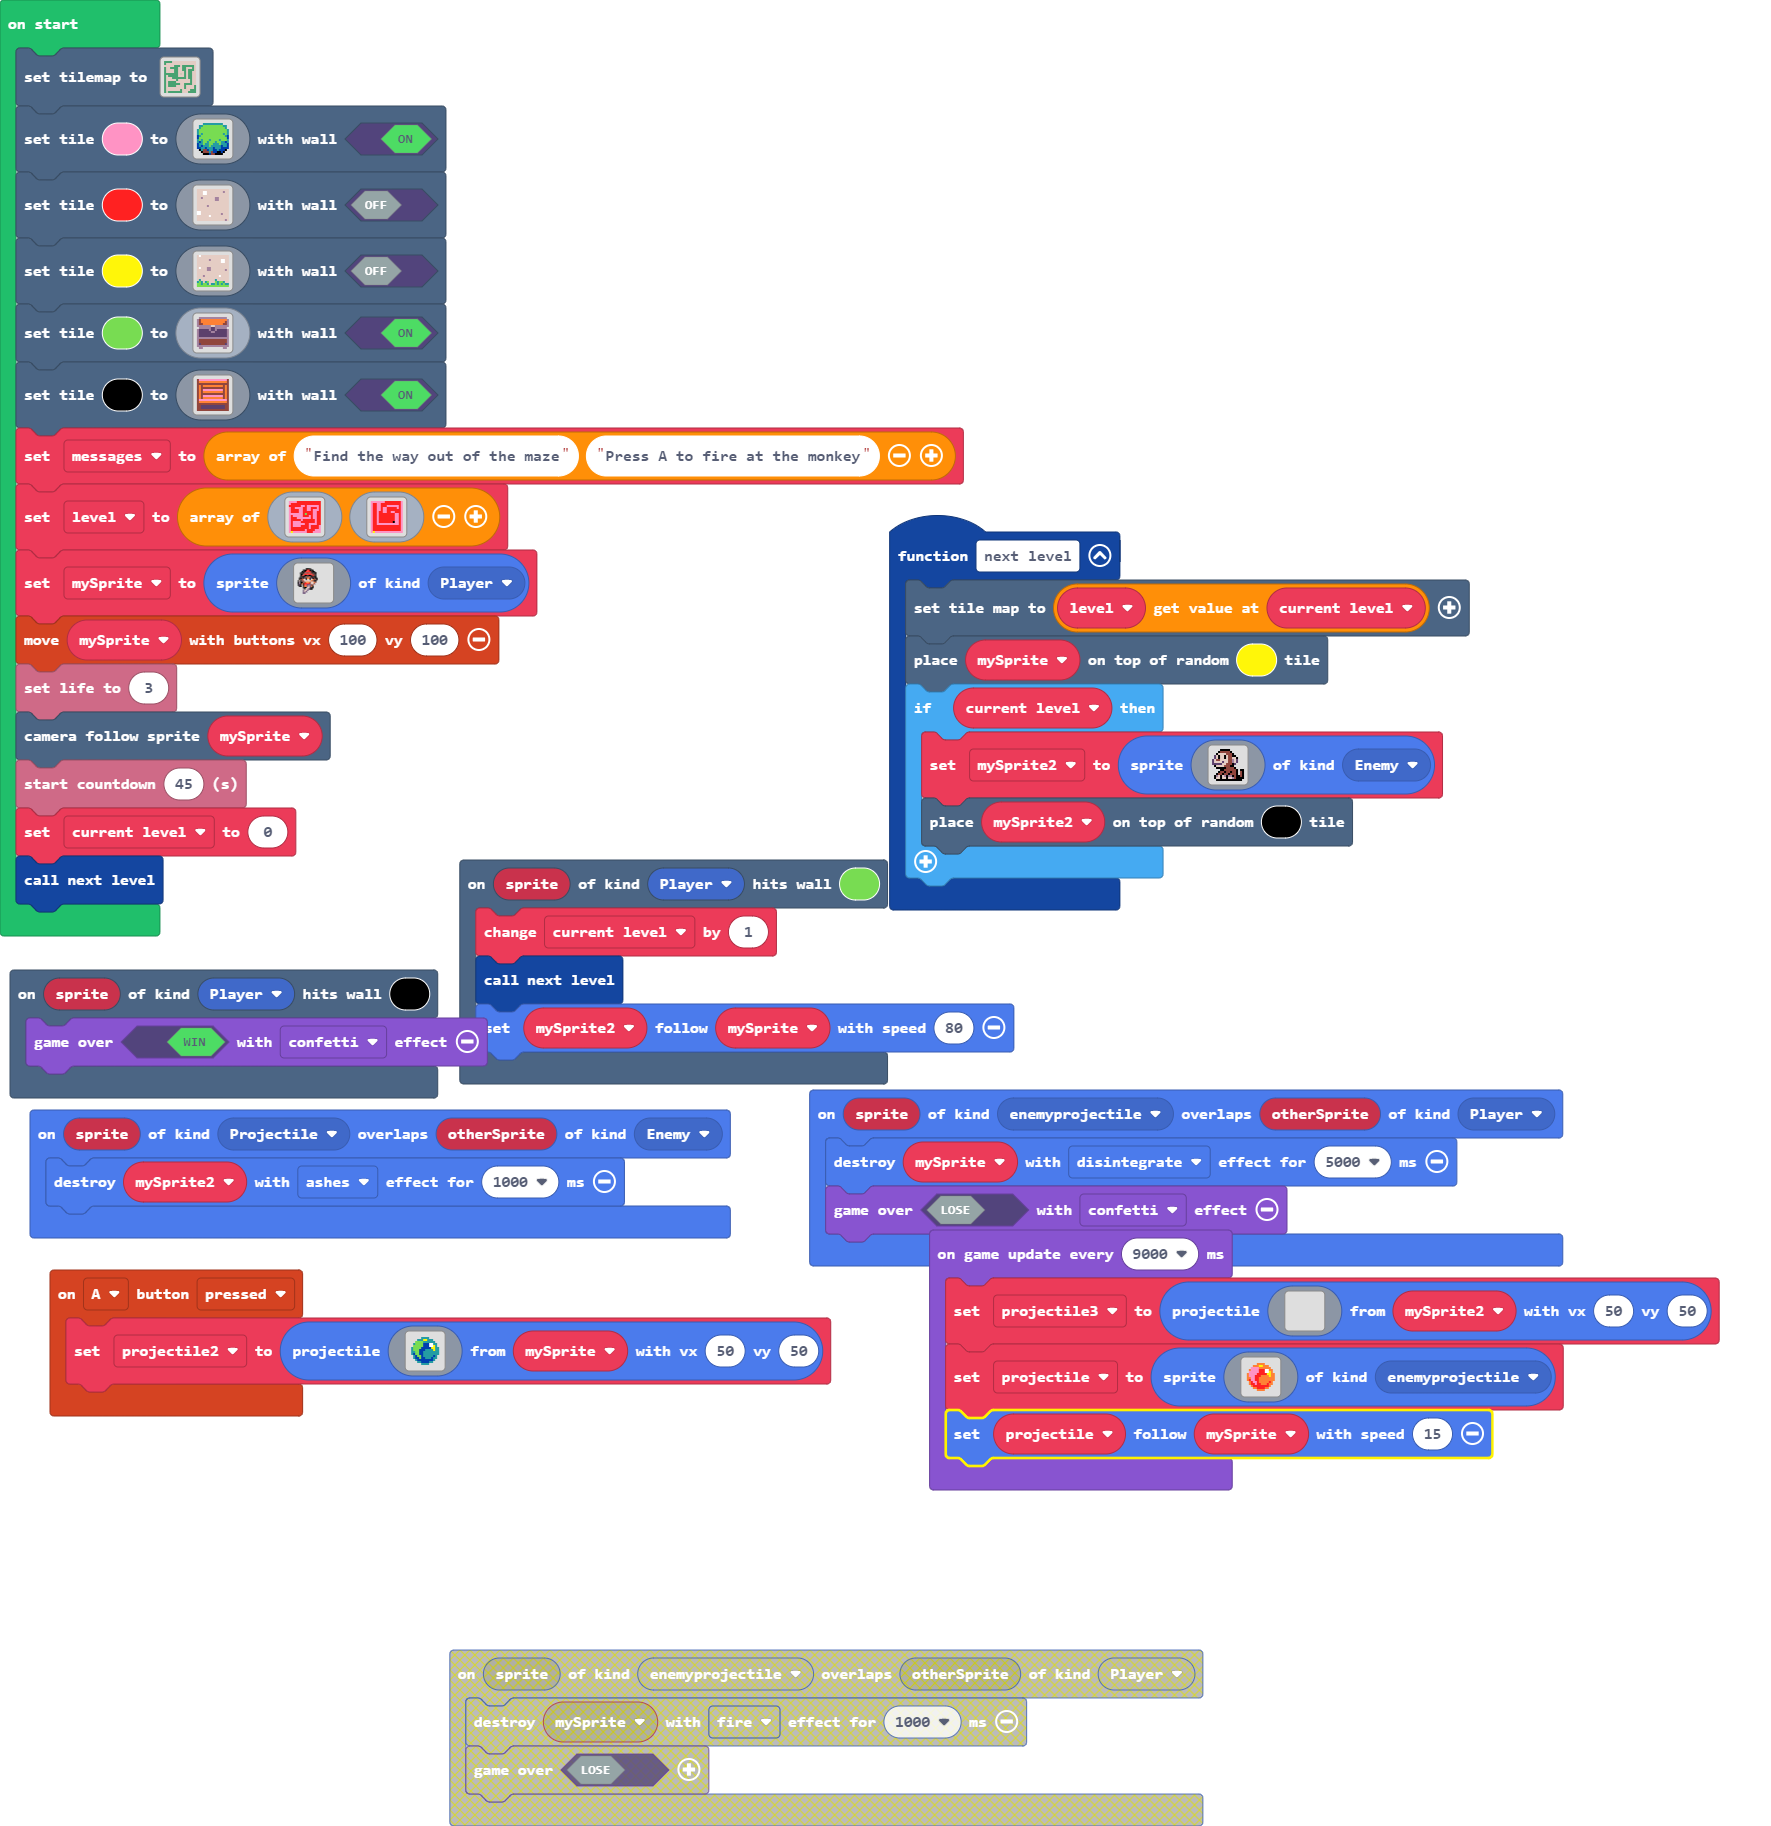
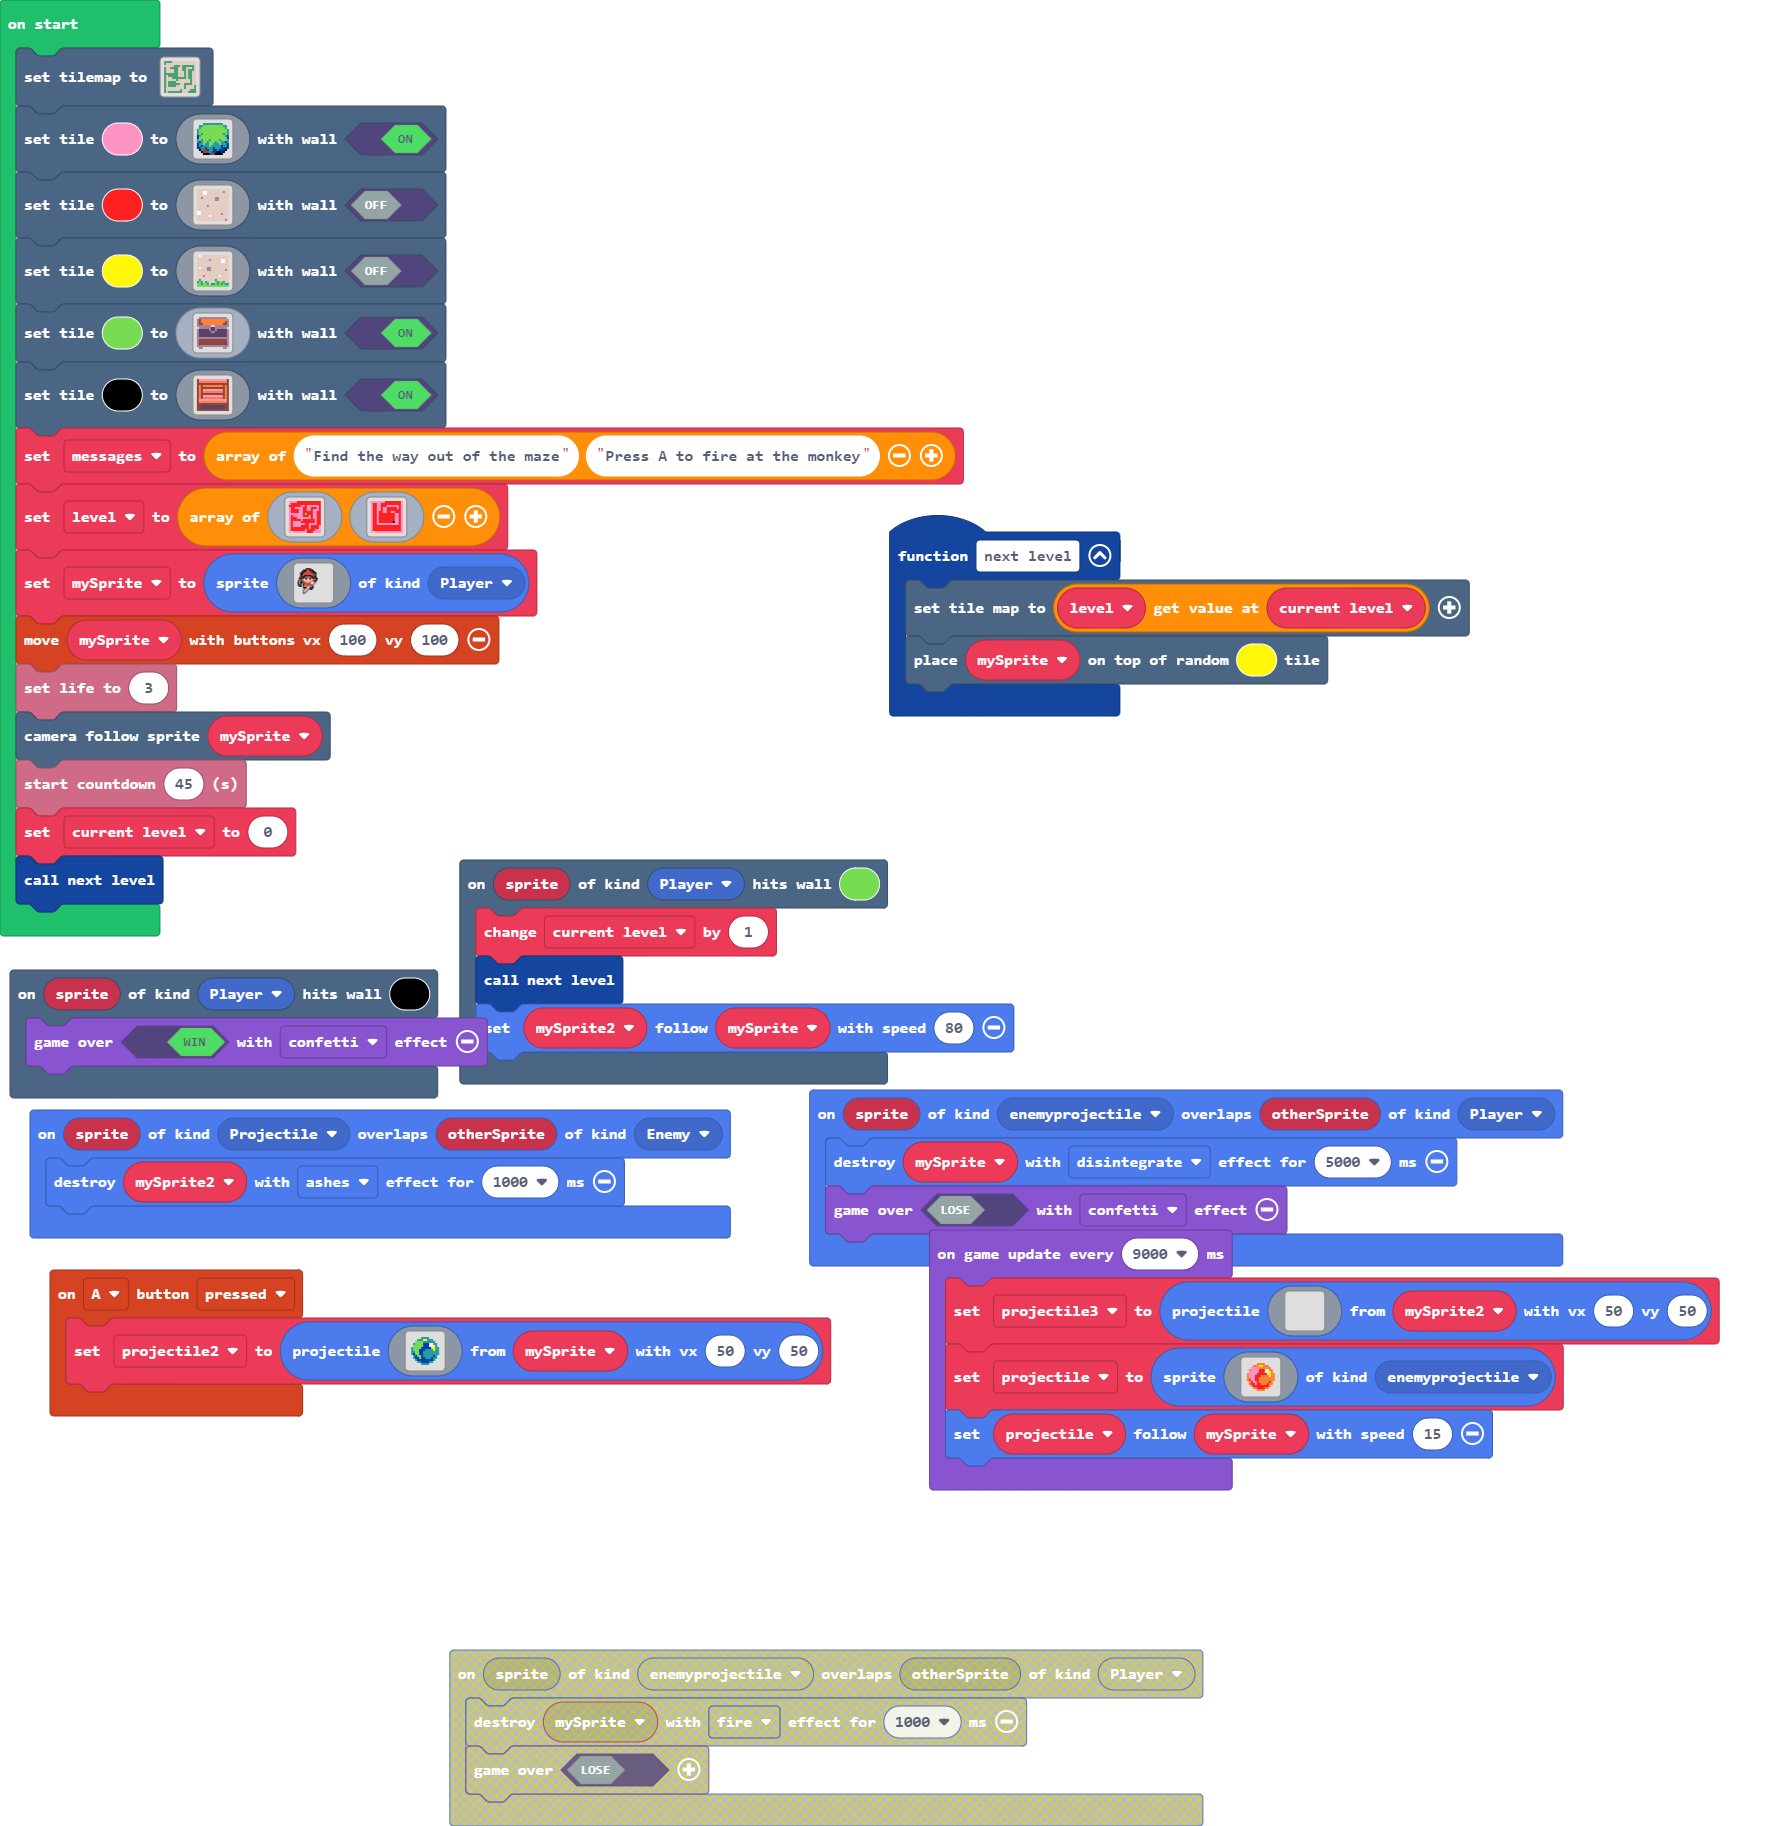
Update main.blocks, main.ts, images.g.jres, images.g.ts

Changed region(s): [[0.4969, 0.3746, 0.8385, 0.4995]]

diff --git a/images.g.ts b/images.g.ts
@@ -173,24 +173,6 @@ fcf.f22cccee............
 3 2 2 2 2 2 2 2 2 2 2 2 2 2 2 3 
 3 5 3 3 3 3 3 3 3 3 3 3 3 3 3 3 
 `;
-            case "image1":return img`
-. . . . f f f f f . . . . . . . 
-. . . f e e e e e f . . . . . . 
-. . f d d d d e e e f . . . . . 
-. c d f d d f d e e f f . . . . 
-. c d f d d f d e e d d f . . . 
-c d e e d d d d e e b d c . . . 
-c d d d d c d d e e b d c . . . 
-c c c c c d d e e e f c . . . . 
-. f d d d d e e e f f . . . . . 
-. . f f f f f e e e e f . . . . 
-. . . . f f e e e e e e f . f f 
-. . . f e e f e e f e e f . e f 
-. . f e e f e e f e e e f . e f 
-. f b d f d b f b b f e f f e f 
-. f d d f d d f d d b e f f f f 
-. . f f f f f f f f f f f f f . 
-`;
             case "image3":return img`
 . b b b b b b b b b b b b b b . 
 b e 4 4 4 4 4 4 4 4 4 4 4 4 4 b 
@@ -246,6 +228,60 @@ d d d d d d d 1 d d d d d d d d
 d d d d d d d d d d d d d d 1 d 
 `;
             case "image5":return img`
+. . . . f f f f f . . . . . . . 
+. . . f e e e e e f . . . . . . 
+. . f d d d d e e e f . . . . . 
+. c d f d d f d e e f f . . . . 
+. c d f d d f d e e d d f . . . 
+c d e e d d d d e e b d c . . . 
+c d d d d c d d e e b d c . . . 
+c c c c c d d e e e f c . . . . 
+. f d d d d e e e f f . . . . . 
+. . f f f f f e e e e f . . . . 
+. . . . f f e e e e e e f . f f 
+. . . f e e f e e f e e f . e f 
+. . f e e f e e f e e e f . e f 
+. f b d f d b f b b f e f f e f 
+. f d d f d d f d d b e f f f f 
+. . f f f f f f f f f f f f f . 
+`;
+            case "image1":return img`
+. . . . f f f f f . . . . . . . 
+. . . f e e e e e f . . . . . . 
+. . f d d d d e e e f . . . . . 
+. c d f d d f d e e f f . . . . 
+. c d f d d f d e e d d f . . . 
+c d e e d d d d e e b d c . . . 
+c d d d d c d d e e b d c . . . 
+c c c c c d d e e e f c . . . . 
+. f d d d d e e e f f . . . . . 
+. . f f f f f e e e e f . . . . 
+. . . . f f e e e e e e f . f f 
+. . . f e e f e e f e e f . e f 
+. . f e e f e e f e e e f . e f 
+. f b d f d b f b b f e f f e f 
+. f d d f d d f d d b e f f f f 
+. . f f f f f f f f f f f f f . 
+`;
+            case "image6":return img`
+. . . . f f f f f . . . . . . . 
+. . . f e e e e e f . . . . . . 
+. . f d d d d e e e f . . . . . 
+. c d f d d f d e e f f . . . . 
+. c d f d d f d e e d d f . . . 
+c d e e d d d d e e b d c . . . 
+c d d d d c d d e e b d c . . . 
+c c c c c d d e e e f c . . . . 
+. f d d d d e e e f f . . . . . 
+. . f f f f f e e e e f . . . . 
+. . . . f f e e e e e e f . f f 
+. . . f e e f e e f e e f . e f 
+. . f e e f e e f e e e f . e f 
+. f b d f d b f b b f e f f e f 
+. f d d f d d f d d b e f f f f 
+. . f f f f f f f f f f f f f . 
+`;
+            case "image7":return img`
 . . . . f f f f f . . . . . . . 
 . . . f e e e e e f . . . . . . 
 . . f d d d d e e e f . . . . . 

diff --git a/main.ts b/main.ts
@@ -29,27 +29,6 @@ scene.onHitTile(SpriteKind.Player, 7, function (sprite) {
 function next_level () {
     scene.setTileMap(level[current_level])
     scene.placeOnRandomTile(mySprite, 5)
-    if (current_level) {
-        mySprite2 = sprites.create(img`
-            . . . . f f f f f . . . . . . . 
-            . . . f e e e e e f . . . . . . 
-            . . f d d d d e e e f . . . . . 
-            . c d f d d f d e e f f . . . . 
-            . c d f d d f d e e d d f . . . 
-            c d e e d d d d e e b d c . . . 
-            c d d d d c d d e e b d c . . . 
-            c c c c c d d e e e f c . . . . 
-            . f d d d d e e e f f . . . . . 
-            . . f f f f f e e e e f . . . . 
-            . . . . f f e e e e e e f . f f 
-            . . . f e e f e e f e e f . e f 
-            . . f e e f e e f e e e f . e f 
-            . f b d f d b f b b f e f f e f 
-            . f d d f d d f d d b e f f f f 
-            . . f f f f f f f f f f f f f . 
-            `, SpriteKind.Enemy)
-        scene.placeOnRandomTile(mySprite2, 15)
-    }
 }
 sprites.onOverlap(SpriteKind.enemyprojectile, SpriteKind.Player, function (sprite, otherSprite) {
     mySprite.destroy(effects.disintegrate, 5000)
